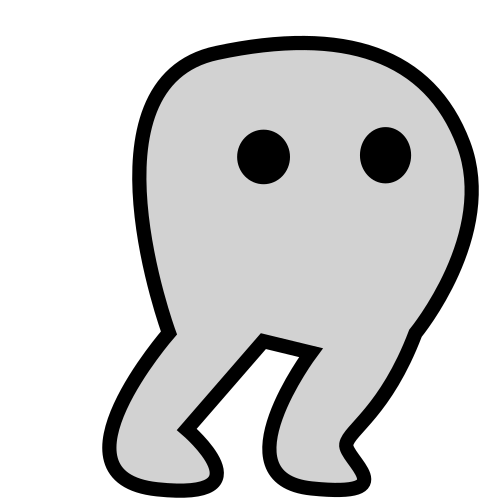
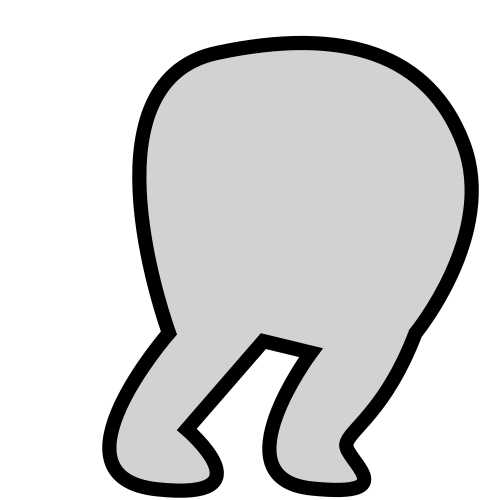
Fix up player sprite and make generated chains despawn

Changed region(s): [[0.72, 0.24, 0.84, 0.39], [0.45, 0.24, 0.6, 0.39]]

diff --git a/src/game/player_chain.rs b/src/game/player_chain.rs
@@ -2,7 +2,7 @@ use bevy::window::PrimaryWindow;
 
 use crate::{
     game::{
-        chain::{CHAIN_IMAGE_SIZE, CHAIN_SIZE, ChainAssets, convert_chain_to_parts},
+        chain::{convert_chain_to_parts, ChainAssets, PivotChainPart, CHAIN_IMAGE_SIZE, CHAIN_SIZE},
         death_anim::PauseWhenDyingSystems,
         player::Player,
     },
@@ -26,6 +26,7 @@ pub(super) fn plugin(app: &mut App) {
                 read_shoot_chain_event,
                 update_shooting_chain,
                 convert_chain,
+                handle_despawn_timer,
             ))
             .in_set(PausableSystems)
             .in_set(PauseWhenDyingSystems),
@@ -45,6 +46,14 @@ pub struct ShootingChain {
 #[derive(Component, Debug, Clone, Copy, Default, PartialEq, Eq, Reflect)]
 #[reflect(Component)]
 pub struct GeneratedChain;
+
+#[derive(Component, Debug, Clone, Copy, Default, PartialEq, Eq, Reflect)]
+#[reflect(Component)]
+pub struct GeneratedChainJoint;
+
+#[derive(Component, Debug, Clone, Default, PartialEq, Eq, Deref, DerefMut, Reflect)]
+#[reflect(Component)]
+pub struct DespawnTimer(pub Timer);
 
 #[derive(Component, Debug, Clone, Copy, Deref, DerefMut, PartialEq, Reflect)]
 #[reflect(Component)]
@@ -76,15 +85,32 @@ fn convert_chain(
     existing_shooting_chain: Query<Entity, With<ShootingChain>>,
     mut commands: Commands,
     chain_assets: Res<ChainAssets>,
+    generated_query: Query<Entity, With<GeneratedChain>>,
+    generated_joint_query: Query<Entity, (With<RevoluteJoint>, With<GeneratedChainJoint>)>,
+    generated_pivot_query: Query<Entity, (With<PivotChainPart>, With<GeneratedChain>)>
 ) {
     if let Some(event) = event_reader.read().last() {
         // delete existing chain
         for entity in existing_shooting_chain {
             commands.entity(entity).despawn();
 
+            for generated_joint_entity in generated_joint_query {
+                commands.entity(generated_joint_entity).despawn();
+            }
+
+            for generated_chain_entity in generated_query {
+                commands.entity(generated_chain_entity)
+                    .insert(DespawnTimer(Timer::from_seconds(3.0, TimerMode::Once)));
+            }
+
+            for pivot_entity in generated_pivot_query {
+                commands.entity(pivot_entity)
+                    .insert(RigidBody::Dynamic);
+            }
+
             let start_pos = event.start_pos;
             let end_pos = event.end_pos;
-            convert_chain_to_parts(start_pos, end_pos, &mut commands, &chain_assets);
+            convert_chain_to_parts(start_pos, end_pos, &mut commands, &chain_assets, true);
         }
     }
 }
@@ -216,6 +242,19 @@ fn handle_input(
             if let Ok(world_pos) = camera.0.viewport_to_world_2d(camera.1, mouse_position) {
                 shoot_chain_event_writer.write(ShootChain(world_pos));
             }
+        }
+    }
+}
+
+fn handle_despawn_timer(
+    mut commands: Commands,
+    time: Res<Time>,
+    entity_despawn_timer: Query<(Entity, &mut DespawnTimer)>,
+) {
+    for (entity, mut despawn_timer) in entity_despawn_timer {
+        despawn_timer.tick(time.delta());
+        if despawn_timer.just_finished() {
+            commands.entity(entity).despawn();
         }
     }
 }

diff --git a/src/game/chain.rs b/src/game/chain.rs
@@ -1,4 +1,4 @@
-use crate::{game::chain_movement::GameLayer, prelude::*, screen::Screen};
+use crate::{game::{chain_movement::GameLayer, player_chain::{GeneratedChain, GeneratedChainJoint}}, prelude::*, screen::Screen};
 use avian2d::math::Vector;
 use bevy_ecs_ldtk::prelude::*;
 
@@ -59,6 +59,11 @@ pub struct ChainImmunity(pub Timer);
 #[derive(Component, Debug, Clone, PartialEq, Eq, Default, Reflect)]
 #[reflect(Component)]
 pub struct ChainPart;
+
+/// The pivot chain part
+#[derive(Component, Debug, Clone, PartialEq, Eq, Default, Reflect)]
+#[reflect(Component)]
+pub struct PivotChainPart;
 
 /// Chain that's imported from the map editor
 #[derive(Component, Debug, Clone, Copy, PartialEq, Eq, Default, Reflect)]
@@ -124,7 +129,7 @@ fn process_chain(
     for chain_transform in chain_query.iter() {
         let start_pos = chain_transform.translation.xy() + Vec2::Y * 0.5 * chain_transform.scale.y;
         let end_pos = chain_transform.translation.xy() - Vec2::Y * 0.5 * chain_transform.scale.y;
-        convert_chain_to_parts(start_pos, end_pos, &mut commands, &chain_assets);
+        convert_chain_to_parts(start_pos, end_pos, &mut commands, &chain_assets, false);
     }
 }
 
@@ -134,6 +139,7 @@ pub fn convert_chain_to_parts(
     end_chain: Vec2,
     commands: &mut Commands,
     chain_assets: &Res<ChainAssets>,
+    generated_chain: bool,
 ) {
     let distance = Vec2::distance(start_chain, end_chain);
     let max_value = f32::floor(distance / CHAIN_SIZE);
@@ -164,6 +170,7 @@ pub fn convert_chain_to_parts(
                     transform,
                     ChainPart,
                 ))
+                .insert_if(GeneratedChain, || generated_chain)
                 .observe(observe_chain_collision)
                 .id();
 
@@ -173,7 +180,8 @@ pub fn convert_chain_to_parts(
                     .with_local_anchor_2(Vector::Y * 1.0 * CHAIN_SIZE * INTENDED_CHAIN_SIZE)
                     .with_angle_limits(-0.01, 0.01)
                     .with_compliance(0.000001),
-            );
+            )
+            .insert_if(GeneratedChainJoint, || generated_chain);
 
             last_chain_option = Some(next_chain);
         } else {
@@ -187,6 +195,8 @@ pub fn convert_chain_to_parts(
                         transform,
                         ChainPart,
                     ))
+                    .insert(PivotChainPart)
+                    .insert_if(GeneratedChain, || generated_chain)
                     .observe(observe_chain_collision)
                     .id(),
             );

diff --git a/src/game/movement.rs b/src/game/movement.rs
@@ -173,7 +173,9 @@ fn control_movement(
         for (movement_acceleration, jump_impulse, mut linear_velocity, is_grounded, is_on_chain) in
             &mut controller_query
         {
-            let damper = if is_on_chain { 0.6 } else { 1.0 };
+            let jump_damper = if is_grounded { 1.0 } else { 0.6 };
+            let damper = if is_on_chain { 0.6 } else { 1.0 } * jump_damper;
+            
             match event {
                 MovementAction::Move(direction) => {
                     linear_velocity.x += damper * *direction * movement_acceleration.0 * delta_time;

diff --git a/src/game/player.rs b/src/game/player.rs
@@ -181,7 +181,7 @@ fn process_player(
     new_player: Query<Entity, Added<Player>>,
 ) {
     for player_entity in new_player.iter() {
-        let layout = TextureAtlasLayout::from_grid(UVec2::splat(500), 5, 1, None, None);
+        let layout = TextureAtlasLayout::from_grid(UVec2::splat(500), 6, 1, None, None);
         let texture_atlas_layout = texture_atlas_layouts.add(layout);
 
         let mut player_sprite = Sprite::from_atlas_image(

diff --git a/docs/notes.md b/docs/notes.md
@@ -20,7 +20,7 @@ Chain Reaction
 - Get chains working
     - Pre-existing in world chains - done 
     - Chains coming down - have events that trigger this? 
-    - Chains from player - kinda done
+    - Chains from player - done
 - Multiple levels - done
 - Add way to die, spikes? enemies? - have vines but want a boss
 - Add checkpoints?
